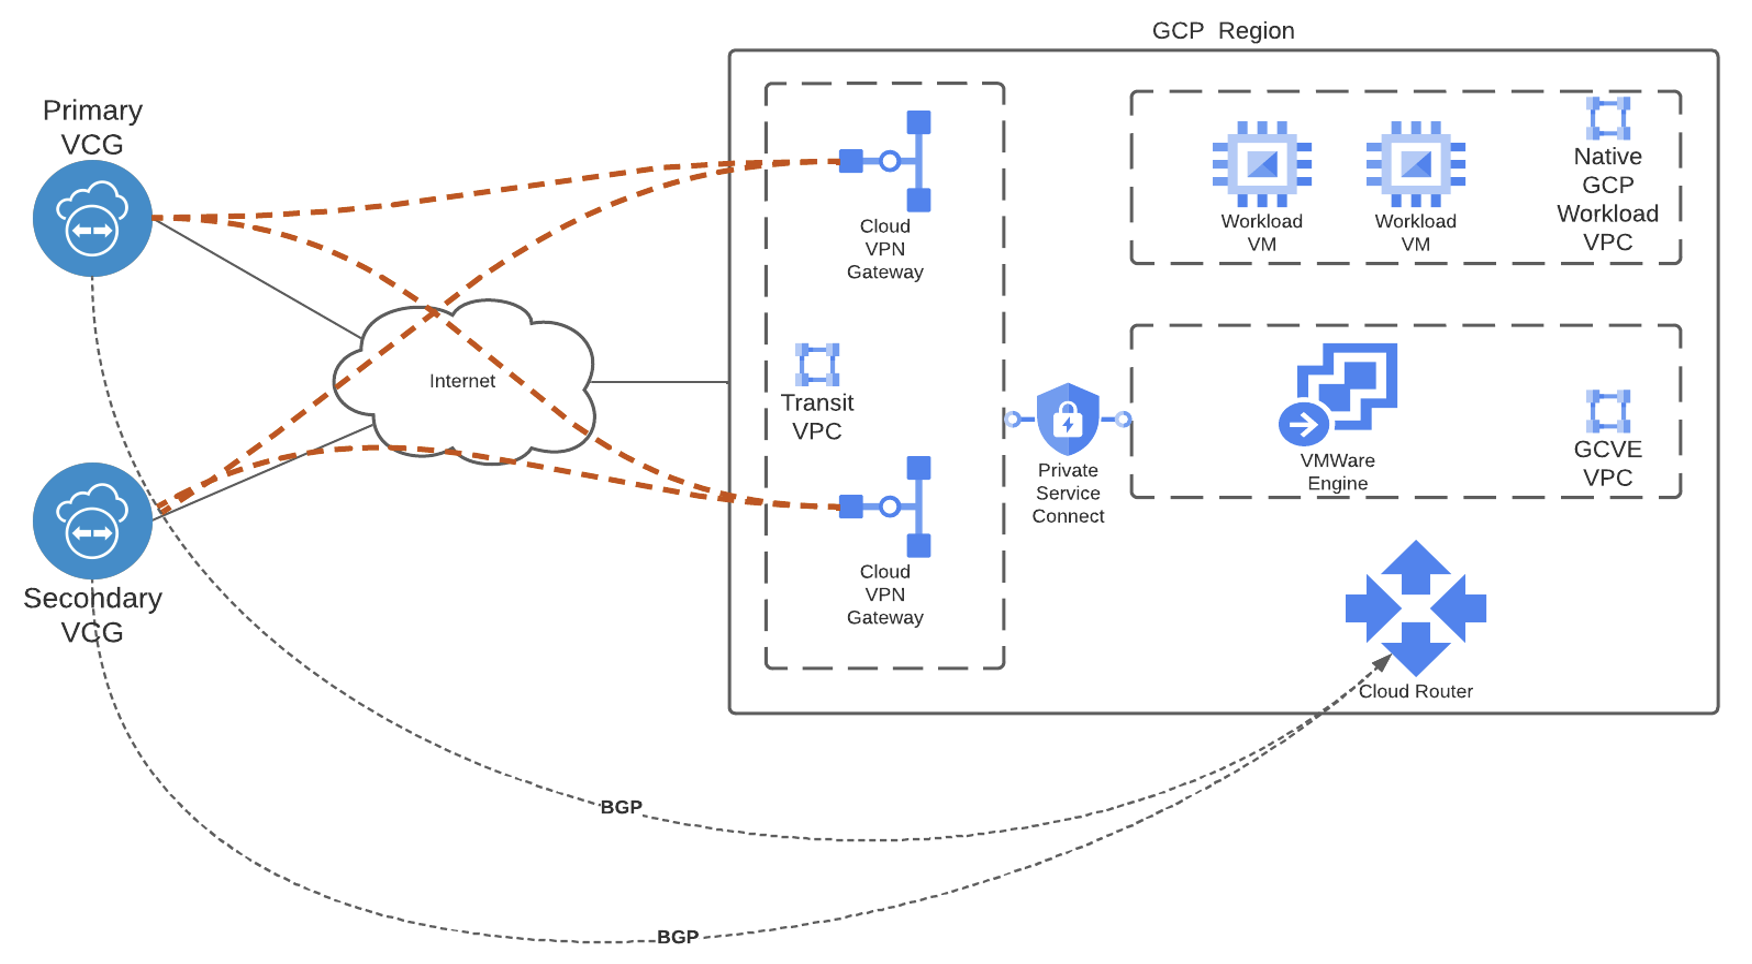
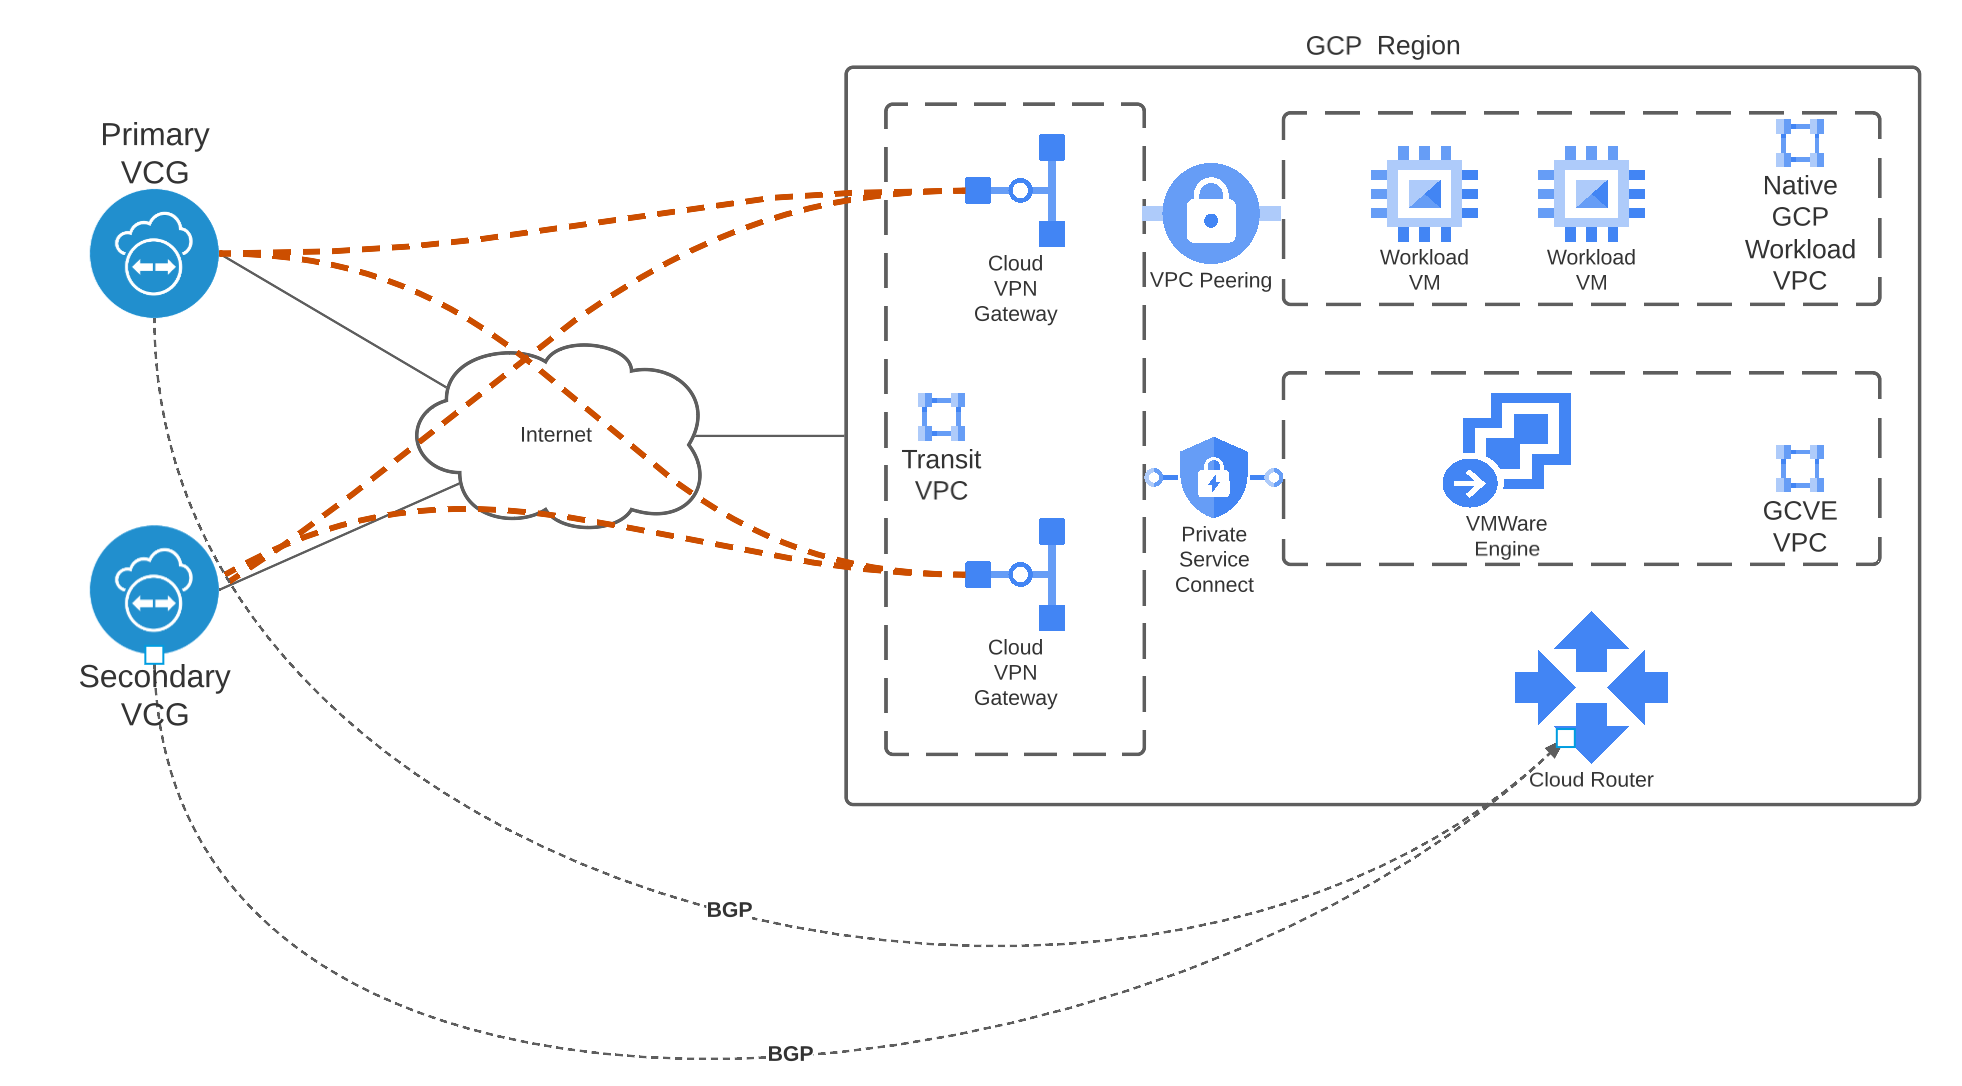
Fixed GCVE NSD w/multi VPC image

diff --git a/docs/4-gcp.md b/docs/4-gcp.md
@@ -59,7 +59,16 @@ With NSD via gateway, maximum resiliency is realized by leveraging both primary 
 
 
 ## Single Region, Multi-VPC
-When there is an additional need to connect to multiple VPCs within a given region, virtual edge LAN interfaces or Google Cloud VPN gateways will reside in a transit VPC (which may or may not also contain other workloads) that will have VPC peering configured with workload VPCs as described in the basic concepts section.
+When there is an additional need to connect to multiple VPCs within a given region, VPC peering can be configured with workload VPCs as described in the basic concepts section.
+
+For virtual VCEs running in GCP, the LAN interface will reside in a transit VPC (which in some cases may also contain other workloads) that will peer with multiple  workload VPCs (up to 25 as of this writing with quotas published [here](https://cloud.google.com/vpc/docs/quota#vpc-peering)).
+<figure markdown>
+  ![Image title](/images/gcp/multi-native-edge.png){ width="800" }
+  <figcaption></figcaption>
+</figure>
+
+Similarly, in NSD based deployments the Google Cloud VPN gateway will be associated with a transit VPC peered with multiple workload VPCs.
+
 
 ## Multi-Region, Multi-VPC
 
